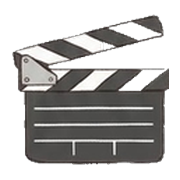
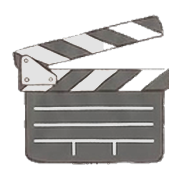
调整月亮出现频率、图案色彩鲜明度，新增蝴蝶/太阳爆炸特效
- 月亮图案抽取权重降为一半，减少40关前难度被稀释
- 电影板图示调亮，兔兔/狗狗/月亮/小派/小远底色饱和度提高，视觉更醒目
- 蝴蝶（40关+，4连击+）与太阳（60关+，4连击+，原本3连击即触发已改为一致门槛）新增爆炸动画特效

diff --git a/game.js b/game.js
@@ -33,17 +33,17 @@ const DIARY_BG_BBOX = {x1:616, y1:1001, x2:1431, y2:2199};
 const TILE_TYPES = [
   { name:'butterfly', bg:'#e3f2fb', img:'assets/tiles/butterfly.png' },
   { name:'star',      bg:'#fde9c8', img:'assets/tiles/star.png' },
-  { name:'bunny',     bg:'#fbe3ef', img:'assets/tiles/bunny.png' },
-  { name:'dogface',   bg:'#eef2e0', img:'assets/tiles/dogface.png' },
-  { name:'moonface',  bg:'#ece6f7', img:'assets/tiles/moonface.png' },
-  { name:'movie',     bg:'#e8e8ef', img:'assets/tiles/movie.png' },
+  { name:'bunny',     bg:'#f6b8d6', img:'assets/tiles/bunny.png' },
+  { name:'dogface',   bg:'#b9dc8f', img:'assets/tiles/dogface.png' },
+  { name:'moonface',  bg:'#c9b3ea', img:'assets/tiles/moonface.png' },
+  { name:'movie',     bg:'#f5f0e6', img:'assets/tiles/movie.png' },
   { name:'mic',       bg:'#dfe9ee', img:'assets/tiles/mic.png' },
   { name:'rose',      bg:'#fbe0e6', img:'assets/tiles/rose.png' },
   { name:'dog',       bg:'#fbe9dd', img:'assets/tiles/dog.png' },
   { name:'sun',       bg:'#fff3c4', img:'assets/tiles/sun.png' },
   { name:'heart',     bg:'#f6d4c9', img:'assets/tiles/heart.png' },
-  { name:'xiaopai',   bg:'#fadce6', img:'assets/tiles/xiaopai.png' },
-  { name:'xiaoyuan',  bg:'#dff0df', img:'assets/tiles/xiaoyuan.png' },
+  { name:'xiaopai',   bg:'#f58aa8', img:'assets/tiles/xiaopai.png' },
+  { name:'xiaoyuan',  bg:'#7dc98a', img:'assets/tiles/xiaoyuan.png' },
 ];
 // 小派/小远两张角色图不算常设图案,只在剧情日记关卡(MILESTONES)跟纪念品触发关卡(MEMENTO_LEVELS)出现,
 // 直接顶替掉当关的兔兔(bunny)/狗狗(dogface),图案总数不变,难度不会因此变高
@@ -736,9 +736,29 @@ function openBoard(levelNum){
 
 function randType(n){ return Math.floor(Math.random()*n); }
 
+const MOON_WEIGHT = 0.5; // 月亮出现权重只有其他图案的一半,避免炸弹太频繁让关卡变得太轻松
+
 /* 剧情/纪念品关卡:抽到兔兔/狗狗时直接顶替成小派/小远,图案总数不变 */
 function pickType(cfg){
-  const t = randType(cfg.tileTypes);
+  const n = cfg.tileTypes;
+  let t;
+  if(MOONFACE_IDX < n){
+    let totalWeight = 0;
+    const weights = [];
+    for(let i=0;i<n;i++){
+      const w = (i===MOONFACE_IDX) ? MOON_WEIGHT : 1;
+      weights.push(w);
+      totalWeight += w;
+    }
+    let r = Math.random()*totalWeight;
+    t = n-1;
+    for(let i=0;i<n;i++){
+      if(r < weights[i]){ t = i; break; }
+      r -= weights[i];
+    }
+  } else {
+    t = randType(n);
+  }
   if(cfg.isSpecialLevel){
     if(t===BUNNY_IDX) return XIAOPAI_IDX;
     if(t===DOGFACE_IDX) return XIAOYUAN_IDX;
@@ -1056,6 +1076,7 @@ function resolveCascade(combo){
   let bombed = false;
   let bonusMoves = 0;
   let specialMsg = null;
+  const burstCells = new Set(); // 蝴蝶/太阳的整排/十字爆炸特效格,消除动画会用更炫的燃烧特效取代普通淡出
   runs.forEach(run=>{
     const [rr,rc] = run[0];
     const cell = BOARD.cells[rr][rc];
@@ -1075,21 +1096,21 @@ function resolveCascade(combo){
       }
     }
 
-    // 40关后,蝴蝶4连以上:清空整排(横向连成就清空该行,纵向连成就清空该列)
+    // 40关后,蝴蝶4连以上:清空整排(横向连成就清空该行,纵向连成就清空该列),整排炸开特效
     if(type===BUTTERFLY_IDX && cfg.level>=40 && run.length>=4){
       if(isHorizontal){
-        for(let c=0;c<cfg.cols;c++) if(BOARD.cells[rr][c] && !matched.has(rr+','+c)) matched.add(rr+','+c);
+        for(let c=0;c<cfg.cols;c++) if(BOARD.cells[rr][c]){ const k=rr+','+c; matched.add(k); burstCells.add(k); }
       } else {
-        for(let r=0;r<cfg.rows;r++) if(BOARD.cells[r][rc] && !matched.has(r+','+rc)) matched.add(r+','+rc);
+        for(let r=0;r<cfg.rows;r++) if(BOARD.cells[r][rc]){ const k=r+','+rc; matched.add(k); burstCells.add(k); }
       }
       specialMsg = `"Let's run away 🏃🏻🦋"`;
     }
 
-    // 60关后,太阳配对成功:以命中点为中心,清空十字型两排(整行+整列)
-    if(type===SUN_IDX && cfg.level>=60){
+    // 60关后,太阳4连以上:以命中点为中心,清空十字型两排(整行+整列),十字炸开特效
+    if(type===SUN_IDX && cfg.level>=60 && run.length>=4){
       const [mr,mc] = run[Math.floor(run.length/2)];
-      for(let c=0;c<cfg.cols;c++) if(BOARD.cells[mr][c] && !matched.has(mr+','+c)) matched.add(mr+','+c);
-      for(let r=0;r<cfg.rows;r++) if(BOARD.cells[r][mc] && !matched.has(r+','+mc)) matched.add(r+','+mc);
+      for(let c=0;c<cfg.cols;c++) if(BOARD.cells[mr][c]){ const k=mr+','+c; matched.add(k); burstCells.add(k); }
+      for(let r=0;r<cfg.rows;r++) if(BOARD.cells[r][mc]){ const k=r+','+mc; matched.add(k); burstCells.add(k); }
       specialMsg = `"morning sunshine☀"`;
     }
 
@@ -1130,11 +1151,11 @@ function resolveCascade(combo){
   document.getElementById('board-score-fill').style.width =
     Math.min(100, BOARD.score/cfg.targetScore*100)+'%';
 
-  // 播放消除动画
+  // 播放消除动画:蝴蝶整排/太阳十字的爆炸格用更炫的燃烧特效,其余照旧淡出
   matched.forEach(key=>{
     const [r,c] = key.split(',').map(Number);
     const el = document.querySelector(`.tile[data-r="${r}"][data-c="${c}"]`);
-    if(el) el.classList.add('clearing');
+    if(el) el.classList.add(burstCells.has(key) ? 'line-burst' : 'clearing');
   });
 
   setTimeout(()=>{

diff --git a/style.css b/style.css
@@ -353,6 +353,15 @@ html,body{
 .tile.clearing{
   transform:scale(0.3);opacity:0;
 }
+.tile.line-burst{
+  animation: lineBurst 0.17s ease forwards;
+  z-index:5;
+}
+@keyframes lineBurst{
+  0%{ transform:scale(1); filter:brightness(1); }
+  40%{ transform:scale(1.25); filter:brightness(1.8) saturate(1.4); box-shadow:0 0 16px 6px rgba(255,210,140,0.85); }
+  100%{ transform:scale(0.25); opacity:0; filter:brightness(1); }
+}
 .tile.dropping{
   animation:dropIn .28s ease;
 }

diff --git a/index.html b/index.html
@@ -14,7 +14,7 @@
 <meta name="apple-mobile-web-app-title" content="小派小远">
 <meta name="mobile-web-app-capable" content="yes">
 
-<link rel="stylesheet" href="style.css?v=20">
+<link rel="stylesheet" href="style.css?v=21">
 </head>
 <body>
 
@@ -102,6 +102,6 @@
 
 </div>
 
-<script src="game.js?v=21"></script>
+<script src="game.js?v=22"></script>
 </body>
 </html>
